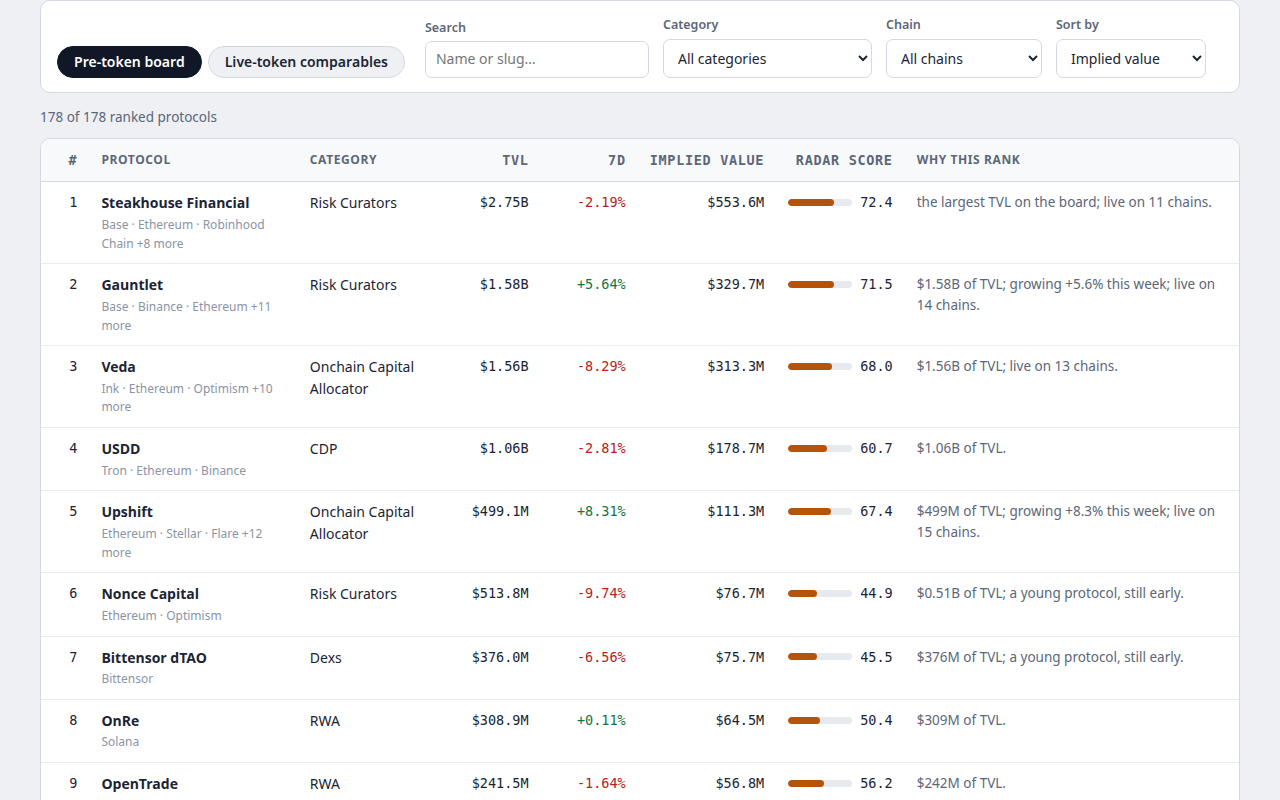
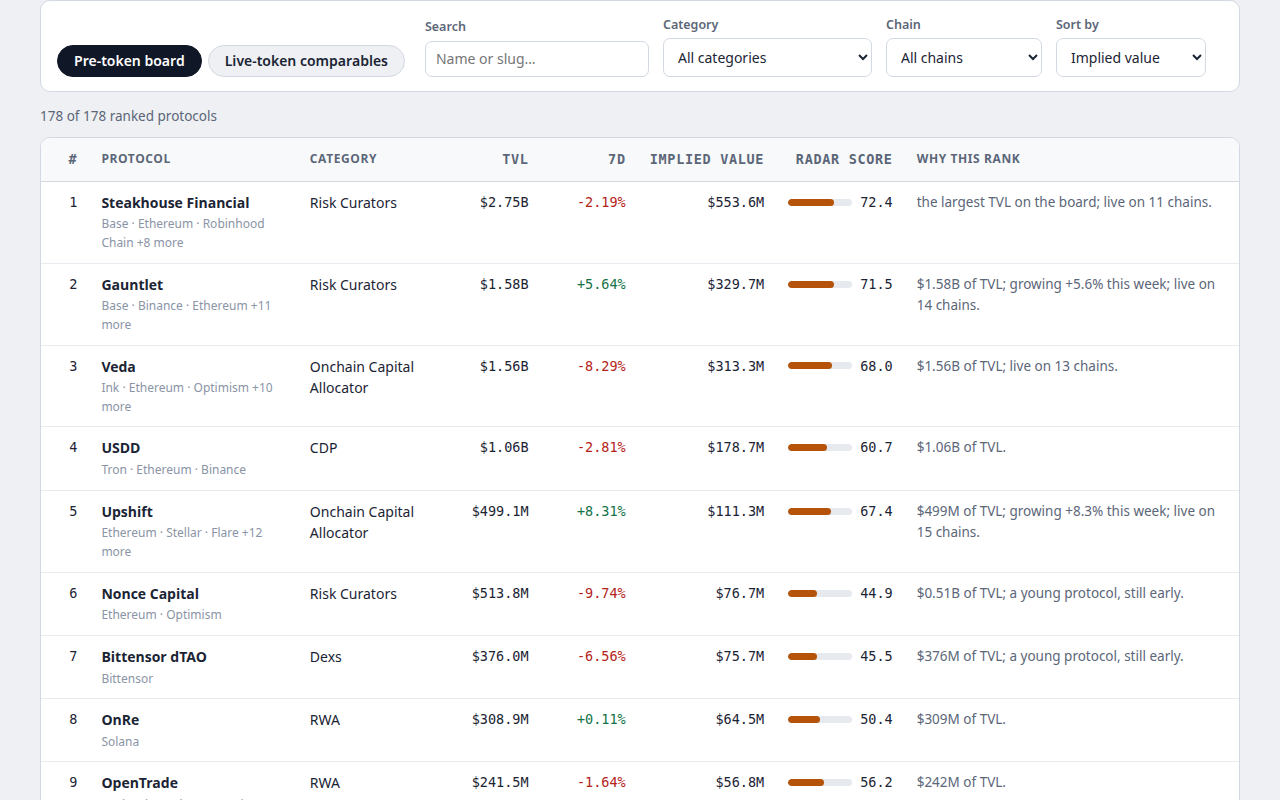
Revise ranking explanation: add methodology worked example with top row's figures

diff --git a/dashboard/app.js b/dashboard/app.js
@@ -99,6 +99,25 @@
     list.appendChild(el('li', { html: '<b>Reach multiplier:</b> 1.00 for one chain, +' + m.reach_per_chain.toFixed(2) + ' per extra chain, up to ' + (1 + m.reach_max_extra * m.reach_per_chain).toFixed(2) + '. More chains means more surface for a launch.' }));
     list.appendChild(el('li', { html: '<b>Radar Score (0–100)</b> explains the rank: scale 40 (log TVL), momentum 20 (7-day growth), maturity 15 (age), reach 10 (chains), category 15 (peer multiple). The score explains; the implied value ranks.' }));
     box.appendChild(list);
+    var top = DATA.rows[0];
+    if (top) {
+      box.appendChild(el('p', {
+        html: '<b>Worked example — #' + top.rank + ' ' + esc(top.name) + '.</b> The same arithmetic, with the top row\u2019s own figures, so a reader can check it against the detail view: ' + esc(top.why),
+      }));
+      var math = el('div', { class: 'math' });
+      math.appendChild(document.createTextNode(
+        'TVL $' + top.tvl_usd.toLocaleString('en-US') + '\n' +
+        'x peer multiple ' + top.peer_multiple.toFixed(4) + '  (category median mcap/TVL)\n' +
+        'x growth ' + top.growth_multiplier.toFixed(4) + '  (' + fmtPct(top.change_7d) + ' over 7 days)\n' +
+        'x maturity ' + top.maturity_multiplier.toFixed(4) + '  (' + fmtAge(top.age_days) + ' with no token)\n' +
+        'x reach ' + top.reach_multiplier.toFixed(4) + '  (' + top.chains.length + ' chain' + (top.chains.length === 1 ? '' : 's') + ')\n' +
+        '= implied value $' + top.implied_value_usd.toLocaleString('en-US')
+      ));
+      box.appendChild(math);
+      box.appendChild(el('p', {
+        text: 'Its Radar Score is ' + top.score.total.toFixed(1) + ' / 100 — scale ' + top.score.scale.toFixed(1) + ', momentum ' + top.score.momentum.toFixed(1) + ', maturity ' + top.score.maturity.toFixed(1) + ', reach ' + top.score.reach.toFixed(1) + ', category ' + top.score.category.toFixed(1) + '.',
+      }));
+    }
   }
 
   function renderFoot() {
